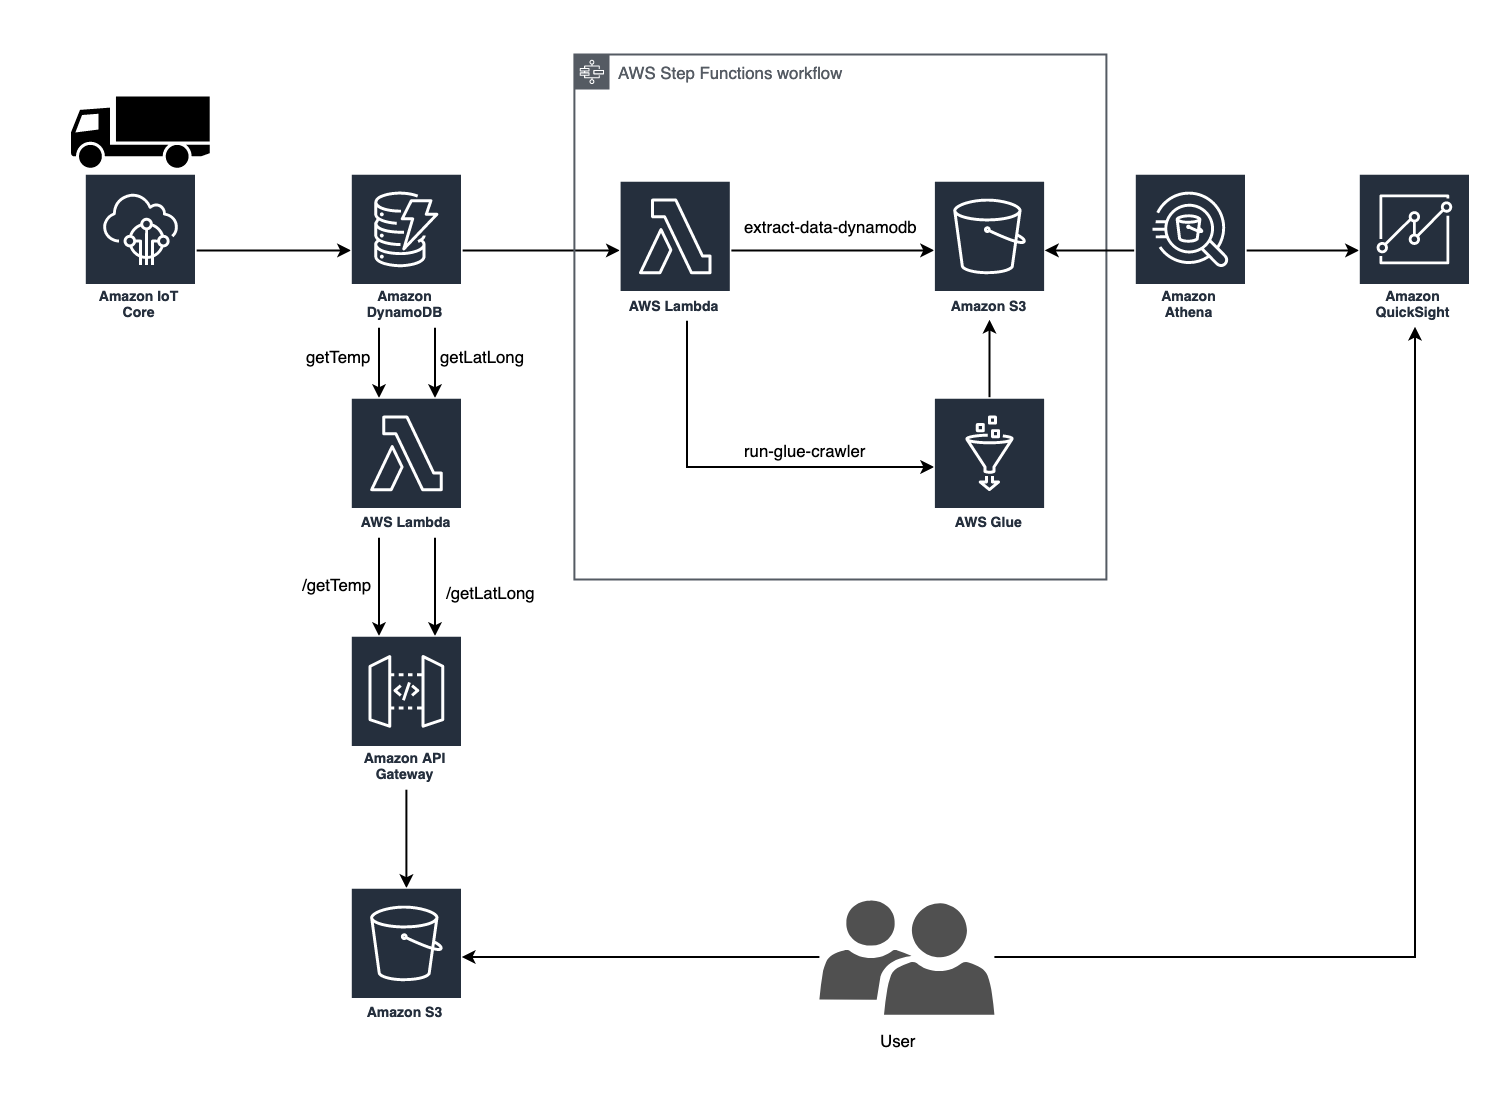
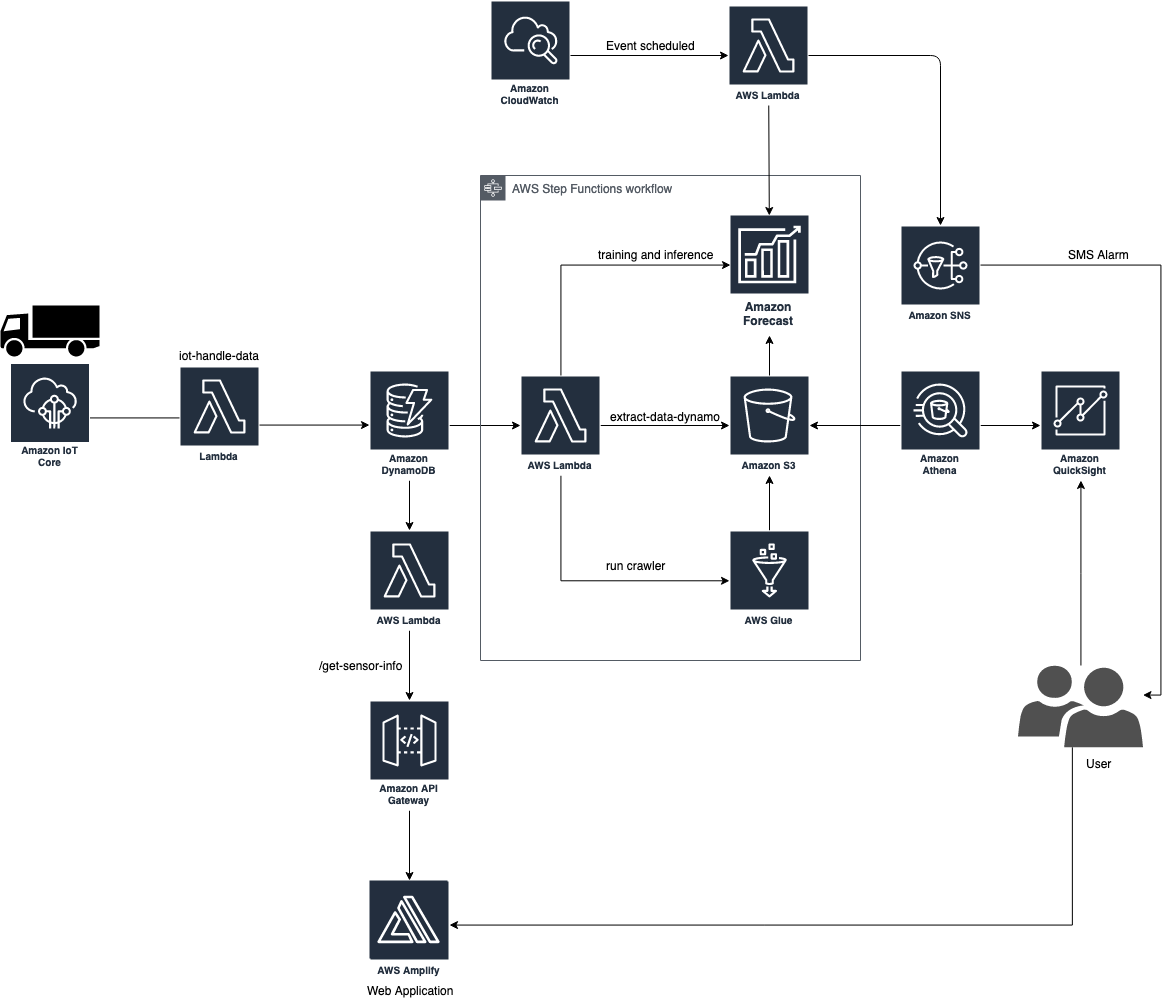
update arch

diff --git a/iot-sensor-steps/iot-codes/extract-data-dynamodb.py b/iot-sensor-steps/iot-codes/extract-data-dynamodb.py
@@ -1,0 +1,71 @@
+# Once a day this code extracts the data for that day from dynamo and inserts the data into the data lake (data is partitioned)
+
+import json
+import boto3
+from boto3.dynamodb.conditions import Key, Attr
+from datetime import datetime
+from datetime import timedelta
+
+
+dynamodb = boto3.resource('dynamodb')
+s3 = boto3.client('s3')
+
+
+# read the data of each device and stores it on s3
+def read_device_data(device_name, client_id, date):
+    partition_key = client_id+"+"+device_name+"+"+date
+    csv_data = "device_id,client_name,timestamp,altitude,latitude,longitude,speed,tempC,tempF\n"
+    print(partition_key)
+    
+    year,month,day = date.split("-")
+    
+    table_name = 'your-table-name'
+    
+    table = dynamodb.Table(table_name)
+    
+    response = table.query(
+        KeyConditionExpression=Key('client_id+device_name+date_server').eq(partition_key)
+    )
+    print(len(response["Items"]))
+    
+    if len(response["Items"]) > 0:
+        for item in response['Items']:
+          csv_data += f"{item['device_name']},{item['client_id']},{item['timestamp_server']},{item['altitude']},{item['latitude']},{item['longitude']},{item['speed']},{item['tempC']},{item['tempF']}\n"
+        
+        # partitioning data
+        s3.put_object(Body=csv_data, Bucket='your-bucket', Key=f'raw-data/client_id={client_id}/device_name={device_name}/year={year}/month={month}/day={day}/{client_id}_{device_name}_{date}.csv')
+
+    
+def get_device_list():
+    
+    table_name = 'your-table-of-devices'
+    
+    table = dynamodb.Table(table_name)
+    
+    response = table.scan()
+    devices = set()
+    
+    print(len(response["Items"]))
+    
+    for item in response['Items']:
+        devices.add((item["device_id"],item["client_id"]))
+        
+    return devices
+    
+
+def lambda_handler(event, context):
+    
+    device_list = get_device_list()
+    
+    # the codes runs every day 00:00, gets data from the day before
+    current_date = datetime.now() - timedelta(days=1)
+        
+    current_date_string = current_date.strftime('%Y-%m-%d')
+    
+    for device_id,client_name in device_list:
+        read_device_data(device_id, client_name, current_date_string)
+    
+    return {
+        'statusCode': 200,
+        'body': json.dumps('Data Created!')
+    }

diff --git a/iot-sensor-steps/iot-codes/get-sensor-data-api.py b/iot-sensor-steps/iot-codes/get-sensor-data-api.py
@@ -1,0 +1,60 @@
+import json
+import boto3
+from boto3.dynamodb.conditions import Key, Attr
+from datetime import datetime
+from datetime import timedelta
+
+
+dynamodb = boto3.resource('dynamodb')
+s3 = boto3.client('s3')
+
+
+# read the data of each device and stores it on s3
+def read_device_data(partition_key,date_range):
+    table_name = 'your-table-name-iot-data'
+    
+    table = dynamodb.Table(table_name)
+    
+    response = table.query(
+        KeyConditionExpression=Key('client_id+device_name+date_server').eq(partition_key) & Key('timestamp_server').gte(date_range)
+    )
+
+    
+    return response['Items']
+
+
+def lambda_handler(event, context):
+    
+    print(event)
+    
+    device_name = event["device_name"]
+    client_name =  event["client_name"]
+    selected_date = event["date"]
+    partition_key = client_name+"+"+device_name+"+"+selected_date
+    
+    # get data in brt time and get the last 10 minutes
+    current_date = datetime.now() - timedelta(hours=3) - timedelta(minutes=10)
+    
+    current_date_string = current_date.strftime('%Y-%m-%d %H:%M:%S')
+    
+    print(current_date_string)
+
+    results = read_device_data(partition_key,current_date_string)
+    
+    listinfos = [
+        {
+            'temp':str(float("{:.2f}".format(item['tempC']))),
+            'altitude':str(float("{:.2f}".format(item['altitude']))),
+            'timestamp':item["timestamp_server"],
+            "lat":item["latitude"],"long":item["longitude"],
+            "speed":str(float("{:.2f}".format(item['speed']))) } for item in results]
+    
+    return {
+        'statusCode': 200,
+        'body': listinfos,
+        'header': {
+            "Access-Control-Allow-Headers" : "Content-Type",
+            "Access-Control-Allow-Origin": "*",
+            "Access-Control-Allow-Methods": "OPTIONS,POST,GET"
+        },
+    }

diff --git a/iot-sensor-steps/iot-codes/lambda-handle-iot-data.py b/iot-sensor-steps/iot-codes/lambda-handle-iot-data.py
@@ -1,0 +1,49 @@
+# This code inserts the data received from the sensor into DynamoDb
+
+import json
+import boto3
+from datetime import datetime
+from datetime import timedelta
+from decimal import Decimal
+
+dynamodb = boto3.resource('dynamodb')
+table_name = 'dynamo-your-table-name'
+
+def put_data(event):
+
+    table = dynamodb.Table(table_name)
+    
+    # subtract - 3 hours converting to BRT Time
+    timestamp_server_utc = datetime.now()
+    timestamp_server_converted_brt = timestamp_server_utc - timedelta(hours=3)
+    date_server_converted_brt = timestamp_server_converted_brt.strftime('%Y-%m-%d')
+    timestamp_server_string =  timestamp_server_converted_brt.strftime('%Y-%m-%d %H:%M:%S')
+
+
+    response = table.put_item(
+      Item={
+        "client_id+device_name+date_server": event["client_id"]+"+"+event["device_name"]+"+"+date_server_converted_brt,
+        "device_name": event["device_name"],
+        "client_id": event["client_id"],
+        "latitude": Decimal(str(event["latitude"])),
+        "longitude": Decimal(str(event["longitude"])),
+        "tempC": Decimal(str(event["tempC"])),
+        "tempF": Decimal(str(event["tempF"])),
+        "altitude": Decimal(str(event["altitude"])),
+        "speed": Decimal(str(event["speed"])),
+        "date_server": date_server_converted_brt,
+        "timestamp_server": timestamp_server_string
+    })
+    
+def lambda_handler(event, context):
+
+    put_data(event)
+    
+    return {
+        'statusCode': 200,
+        'body': json.dumps('Data Inserted!')
+    }
+    
+
+
+

diff --git a/iot-sensor-steps/iot-codes/quicksight-generate-embed-url.py b/iot-sensor-steps/iot-codes/quicksight-generate-embed-url.py
@@ -1,0 +1,41 @@
+# This code generates Quicksgiht Embeded URL to embed in the application
+
+import json
+import boto3
+from botocore.exceptions import ClientError
+import os
+
+def lambda_handler(event, context):
+
+    awsAccountId = context.invoked_function_arn.split(':')[4]
+    
+    dashboardIdList = re.sub(' ','',os.environ['DashboardId'])
+    dashboardNameList = os.environ['DashboardName']
+    dashboardRegion = os.environ['DashboardRegion']
+    
+    quickSight = boto3.client('quicksight', region_name=dashboardRegion);
+
+    try:
+        response = quickSight.get_dashboard_embed_url(
+             AwsAccountId = awsAccountId,
+             Namespace = 'default',
+             DashboardId = dashboardIdList,
+             AdditionalDashboardIds=dashboardIdList,
+             IdentityType = 'ANONYMOUS',
+             SessionLifetimeInMinutes = 120,
+             UndoRedoDisabled = True,
+             ResetDisabled = True
+         )
+         
+        url = response['EmbedUrl']
+            
+        return {
+            'statusCode': 200,
+            'headers': {"Access-Control-Allow-Origin": "*", "Access-Control-Allow-Headers": "Content-Type"},
+            'body': json.dumps(response),
+            'isBase64Encoded':  bool('false')
+        }
+        
+    except ClientError as e:
+        print(e)
+        return "Error generating embeddedURL: " + str(e)

diff --git a/iot-sensor-steps/iot-codes/process-forecast-data.py b/iot-sensor-steps/iot-codes/process-forecast-data.py
@@ -1,0 +1,35 @@
+# This code gets iot data from dynamodb and transform to use on Forecast
+
+import pandas as pd
+import boto3
+
+def lambda_handler(event, context):
+    bucket_name = 'bucket-name-datalake'
+    key = 'processed-data-forecast-ml/update/'
+    file_name = 'DadosReais.csv'
+    
+    # Retrieve data from DynamoDB
+    dynamodb = boto3.resource('dynamodb')
+    table = dynamodb.Table('your-table-name')
+    response = table.scan()
+    response = pd.DataFrame(response['Items'])
+    
+    # Process data
+    filtered_data = response[["client_id","timestamp_server","tempC"]]
+    filtered_data = filtered_data.rename(columns={
+        'client_id': 'item_id',
+        'timestamp_server': 'timestamp',
+        'tempC': 'target_value'
+    })
+    filtered_data = filtered_data.sort_values(by='timestamp')
+    filtered_data.to_csv('/tmp/' + file_name, index=False)
+    
+    # Save the dataset to the data lake
+    try:
+        boto3.Session().resource('s3').Bucket(bucket_name).upload_file('/tmp/' + file_name, 'processed-data-forecast-ml/update/{}'.format(file_name))
+        print('Upload to S3 successfully completed')
+    except:
+        print('Error on uploading file to S3')
+    
+    # Import Amazon Forecast dataset
+    

diff --git a/iot-sensor-steps/iot-codes/secrets.h b/iot-sensor-steps/iot-codes/secrets.h
@@ -1,0 +1,17 @@
+#include <pgmspace.h>
+
+#define SECRET
+#define THINGNAME "your-esp32-name"
+
+const char WIFI_SSID[] = "your-wifi-name";
+const char WIFI_PASSWORD[] = "password";
+const char AWS_IOT_ENDPOINT[] = "iot-endpoint";
+
+// Amazon Root CA 1
+static const char AWS_CERT_CA[] PROGMEM = R"";
+
+// Device Certificate
+static const char AWS_CERT_CRT[] PROGMEM = R"";
+
+// Device Private Key
+static const char AWS_CERT_PRIVATE[] PROGMEM = R"";

diff --git a/iot-sensor-steps/iot-codes/run-glue-crawler.py b/iot-sensor-steps/iot-codes/run-glue-crawler.py
@@ -1,0 +1,13 @@
+# This code run Glue Crawler
+
+import boto3
+client = boto3.client('glue')
+
+
+def lambda_handler(event, context):
+    
+    glueCrawlerName = "your-crawler-name"
+    
+    response = client.start_crawler(Name=glueCrawlerName)
+    
+    return response

diff --git a/README.md b/README.md
@@ -4,6 +4,6 @@ For instructions about:
 - [IOT device](https://github.com/caroljunq/builders-fair-2021-e-l-s-a/tree/main/iot-sensor-steps)
 - [Front-end](https://github.com/caroljunq/builders-fair-2021-e-l-s-a/tree/main/elsap) 
 
-E.L.S.A is a solution that helps to monitor one of the most important steps for vaccines - transportation delivery. The solution provides information about package location, moisture and temperature. Using ML and analytics services, E.L.S.A. shows near real-time dashboards about vaccines’ package status and location, and alerts the stackholders (managers, truck drivers, etc.) if there is a problem with the package (ex: high temperatures, location audit, moisture below of the expected)
+E.L.S.A is a solution that helps to monitor one of the most important steps for vaccines - transportation delivery. The solution provides information about package location and temperature. Using ML and analytics services, E.L.S.A. shows near real-time dashboards about vaccines’ package status and location, and alerts the stackholders (managers, truck drivers, etc.) if there is a problem with the package (ex: high temperatures, location audit).
 
 ![ELSA Architecture](https://github.com/caroljunq/builders-fair-2021-e-l-s-a/blob/main/arch-elsa.png)
